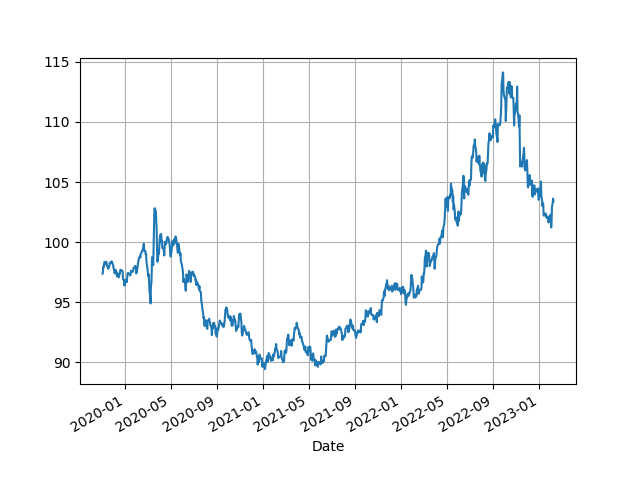
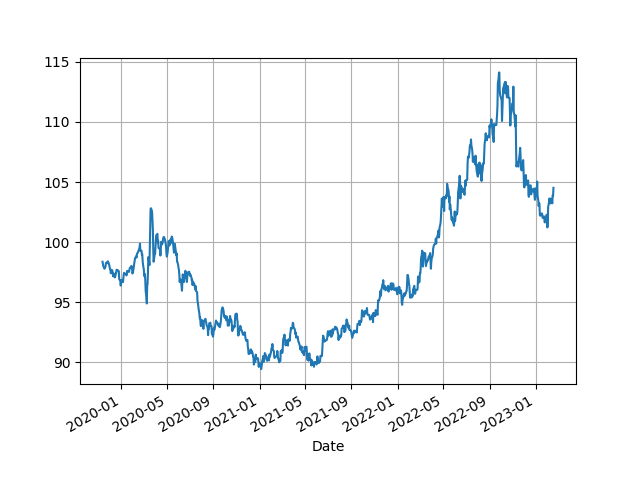
--

Changed region(s): [[0.1562, 0.125, 0.875, 0.7812], [0.0938, 0.8125, 0.8438, 0.9062]]

diff --git a/en/mbl/2023/util.py b/en/mbl/2023/util.py
@@ -439,3 +439,27 @@ def to_bearing(lat,lon,brng,d):
     lat2 = math.degrees(lat2)
     lon2 = math.degrees(lon2)
     return lat2,lon2
+
+
+def two_plot(df, col1, col2):
+    plt.figure(figsize=(12,5))
+    ax1 = df[col1].plot(color='blue', grid=True, label=col1)
+    ax2 = df[col2].plot(color='red', grid=True, label=col2,secondary_y=True)
+    h1, l1 = ax1.get_legend_handles_labels()
+    h2, l2 = ax2.get_legend_handles_labels()
+    plt.legend(h1+h2, l1+l2, loc=2) 
+
+def get_quandl(series):
+    import quandl, os
+    fname = '.key/.quandl'
+    auth = open(fname).read()
+    df = quandl.get(series, returns="pandas",authtoken=auth)
+    return df
+    
+def get_fred(year, series):
+    today = datetime.datetime.now()
+    start=datetime.datetime(year, 1, 1)
+    end=datetime.datetime(today.year, today.month, today.day)
+    df = data.DataReader(series, 'fred', start, end)
+    return df
+

diff --git a/en/2021/01/stats.md b/en/2021/01/stats.md
@@ -1,7 +1,7 @@
 # Economy, Calculations, Data
 
 ```python
-import util as u
+import impl as u
 import pandas as pd
 pd.set_option('display.max_columns', None)
 ```
@@ -75,12 +75,12 @@ DATE
 2022-10-01  0.959254
                  inf
 DATE                
-2022-07-01  8.524815
 2022-08-01  8.262693
 2022-09-01  8.201670
 2022-10-01  7.745427
 2022-11-01  7.110323
 2022-12-01  6.454401
+2023-01-01  6.410147
 ```
 
 <a name='taylor'/>
@@ -97,19 +97,19 @@ df['Curr'] = df.PCEPI.pct_change()*100.
 df['Taylor'] = (longrun + df.Curr + 0.5*(df.Curr - longrun) + 0.5*df.Gap)
 print (df.Taylor.tail(4))
 df[['FEDFUNDS','Taylor']].plot()
-plt.savefig('taylor.png')
+plt.savefig('taylor.jpg',quality=40)
 ```
 
 ```text
 DATE
-2019-01-01    3.017600
-2020-01-01    0.024595
-2021-01-01    5.984414
-2022-01-01    7.657455
+2020-01-01    0.245628
+2021-01-01    6.687927
+2022-01-01    9.984827
+2023-01-01    2.954121
 Freq: AS-JAN, Name: Taylor, dtype: float64
 ```
 
-![](taylor.png)
+![](taylor.jpg)
 
 ## Wages and Unemployment
 
@@ -361,11 +361,11 @@ plt.savefig('sp500-earnings.png')
 ```text
             SP 500 Earnings
 Date                       
-2022-02-28           207.66
-2022-03-31           204.94
-2022-04-30           201.86
-2022-05-31           197.74
-2022-06-30           193.17
+2022-05-31           197.13
+2022-06-30           192.58
+2022-07-31           190.87
+2022-08-31           189.21
+2022-09-30           187.07
 ```
 
 ![](sp500-earnings.png)
@@ -420,12 +420,12 @@ plt.savefig('dollar.png')
 
 ```text
 Date
-2023-02-03    102.919998
-2023-02-05    103.270000
-2023-02-06    103.620003
-2023-02-07    103.397003
+2023-02-14    103.230003
+2023-02-15    103.919998
+2023-02-16    103.860001
+2023-02-17    104.515999
 Name: Close, dtype: float64
-[ 81.03727281 111.52732215]
+[ 81.04615717 111.52832983]
 ```
 
 ![](dollar.png)
